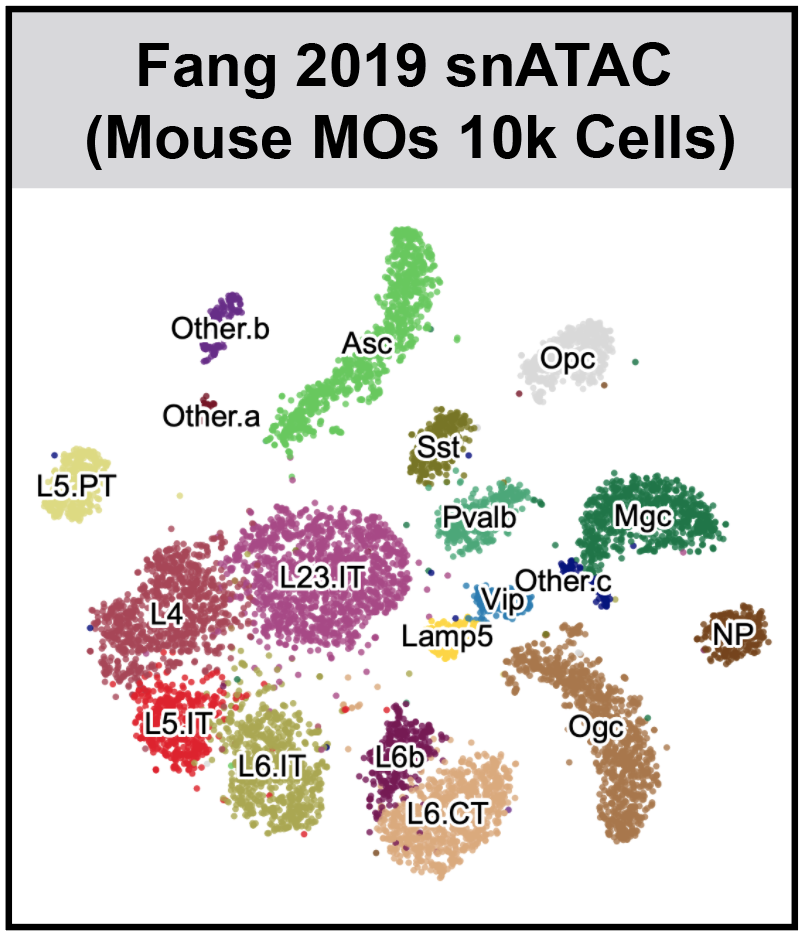
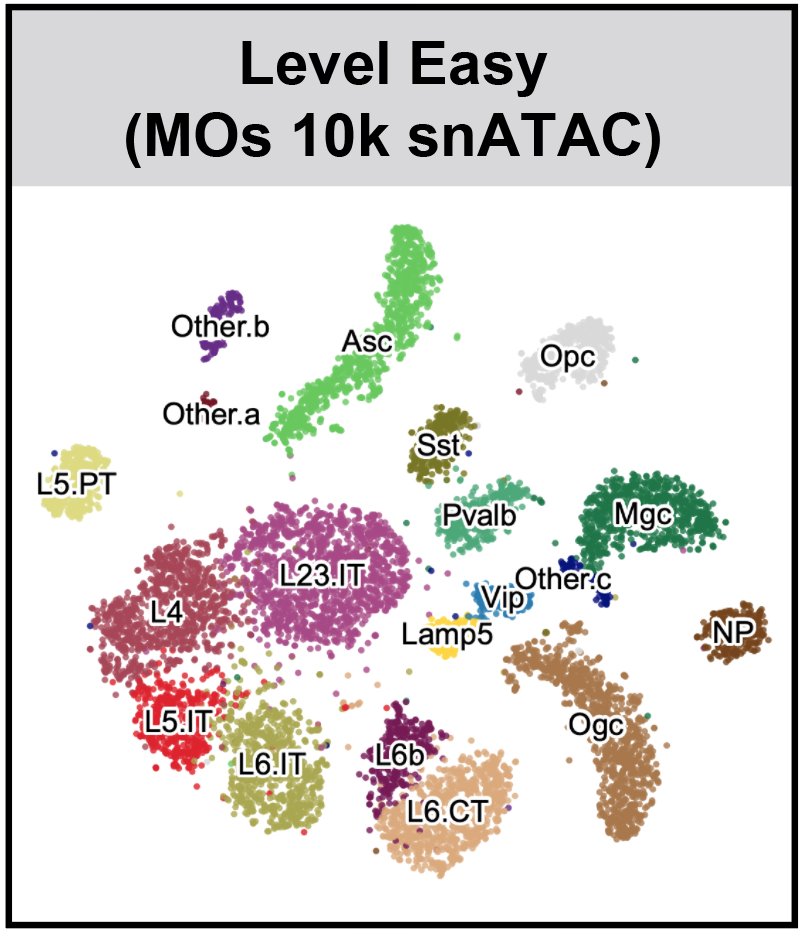
update examples

Changed region(s): [[0.0, 0.0, 0.9975, 1.0], [0.0312, 0.4657, 0.1559, 0.5589], [0.6234, 0.3415, 0.7481, 0.4347]]

diff --git a/examples/MOS_2k/MOS_2k.md b/examples/MOS_2k/MOS_2k.md
@@ -1,10 +1,12 @@
-## Analysis of Mouse Secondary Motor Cortex (MOs) 2k Cells
+## Mouse Secondary Motor Cortex 2k Cells (Beginner)
 
-**Step 1. Download MOs 2k dataset**.             
+**Step 1. MOs 2k dataset**.             
 We will be analyzing a subset of Secondary Motor Cortex (MOs) from Fang 2019. There are 2,000 single cells that were randomly sampled from the original 65,000 cells in Fang 2019. We will start with a snap object `mos` which has been designed to efficiently work with multiple sparse matrices for single cell ATAC-seq datasets. 
 
 ```R
 $ R
+$ R
+> library(SnapATAC);
 > data(mos);
 > mos
 number of barcodes: 2000
@@ -135,6 +137,18 @@ SnapATAC allows using tSNE, UMAP and FIt-sne to visualize and explore these data
 	seed.use=10,
 	num.cores=5
 	);
+
+> mos = runViz(
+	obj=mos, 
+	dims=2,
+	pca.dims=1:20, 
+	weight.by.sd=TRUE,
+	method="umap",
+	fast_tsne_path=NULL,
+	Y.init=NULL,
+	seed.use=10,
+	num.cores=5
+	);
 ```
 
 **Step 9. Visulization (SnapATAC).**.     
@@ -144,6 +158,25 @@ SnapATAC allows using tSNE, UMAP and FIt-sne to visualize and explore these data
 > plotViz(
 	obj=mos, 
 	method="tsne", 
+	point.size=1, 
+	point.shape=19, 
+	point.alpha=0.8, 
+	point.color="cluster",
+	text.add=TRUE,
+	text.size=1.4,
+	text.color="black",
+	text.halo.add=TRUE,
+	text.halo.color="white",
+	text.halo.width=0.2,
+	down.sample=10000,
+	pdf.file.name=NULL,
+	pdf.width=7, 
+	pdf.height=7
+	);
+
+> plotViz(
+	obj=mos, 
+	method="umap", 
 	point.size=1, 
 	point.shape=19, 
 	point.alpha=0.8, 

diff --git a/README.md b/README.md
@@ -15,7 +15,7 @@ When applied to a dataset from mouse secondary motor cortex, SnapATAC is able to
 
 SnapATAC has two components: [Snaptools](https://github.com/r3fang/SnapTools) and [SnapATAC](https://github.com/r3fang/SnapATAC). 
 
-* Snaptools - a preprocessing pipeline that works with [snap](https://github.com/r3fang/SnapATAC/wiki/FAQs) file. 
+* SnapTools - a preprocessing pipeline that works with [snap](https://github.com/r3fang/SnapATAC/wiki/FAQs) file. 
 * SnapATAC  - a R package for the clustering, annotation, motif and downstream analysis.    
 
 Install snaptools from PyPI. See how to install snaptools on [FAQs](https://github.com/r3fang/SnapATAC/wiki/FAQs). 

diff --git a/examples/Fang_2019/Fang_2019.md b/examples/Fang_2019/Fang_2019.md
@@ -1,4 +1,4 @@
-## Analysis of Mouse Secondary Motor Cortex (MOs)
+## Mouse Secondary Motor Cortex 10k (Easy)
 ***_Please note that the data used here is only a subset of MOs reported in Fang 2019 paper._***        
 In the original manuscript, mouse secondary motor cortex is dissected into three slices namely anterior, middle and posterior, each having two biological replicates. In this tutorial, we will analyze one dataset `CEMBA180306_2B` which is the first replicate for the middle (2nd) slice.
 

diff --git a/examples/10X_10k/10X_10k.md b/examples/10X_10k/10X_10k.md
@@ -1,4 +1,4 @@
-## Analysis of 10k PBMC 10X single cell ATAC-seq   
+## 10X PBMC 10k  scATAC-seq  (Normal)
 SnapATAC is also compatible with with 10X single cell ATAC-seq data. **Step 1 to step 6 is the pre-processing to generate snap file. You can skip step 1-6 by downloading the sanp file [here](http://renlab.sdsc.edu/r3fang/share/Fang_2019/published_scATAC/PBMC_10k_10X/atac_v1_pbmc_10k_fastqs/atac_v1_pbmc_10k.snap).**
 
 **Step 1. Download the demo dataset (PBMC 10K)**
